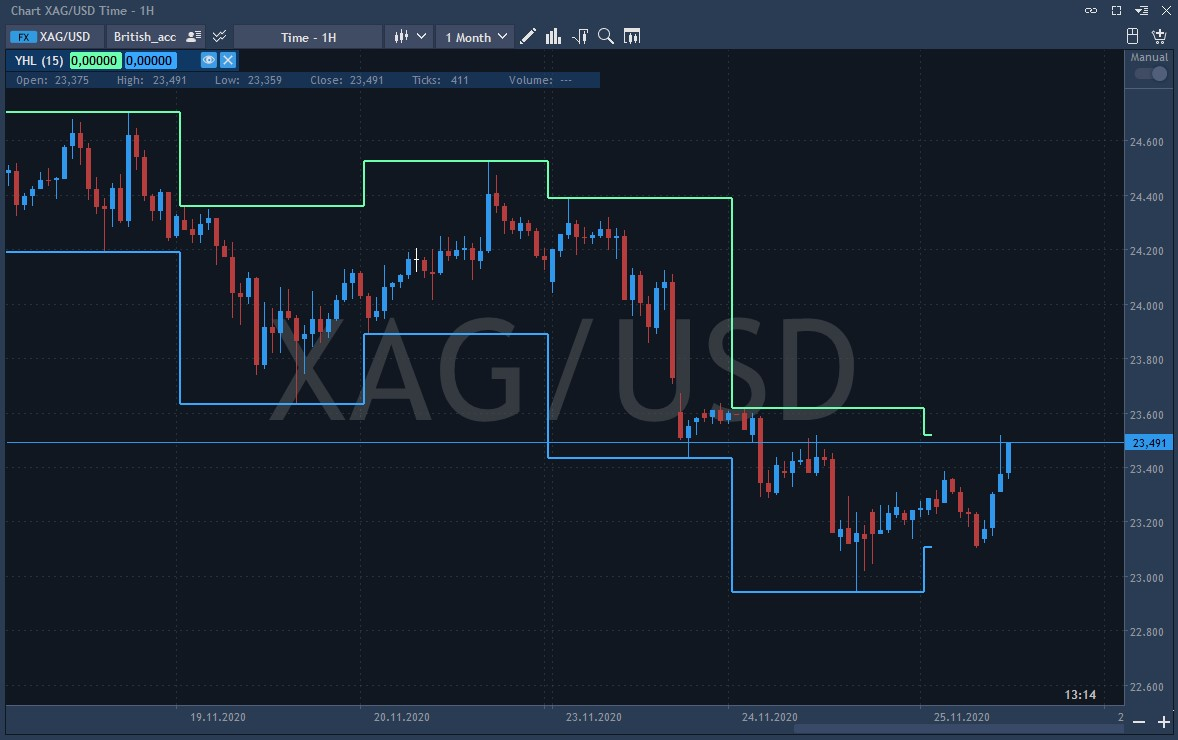
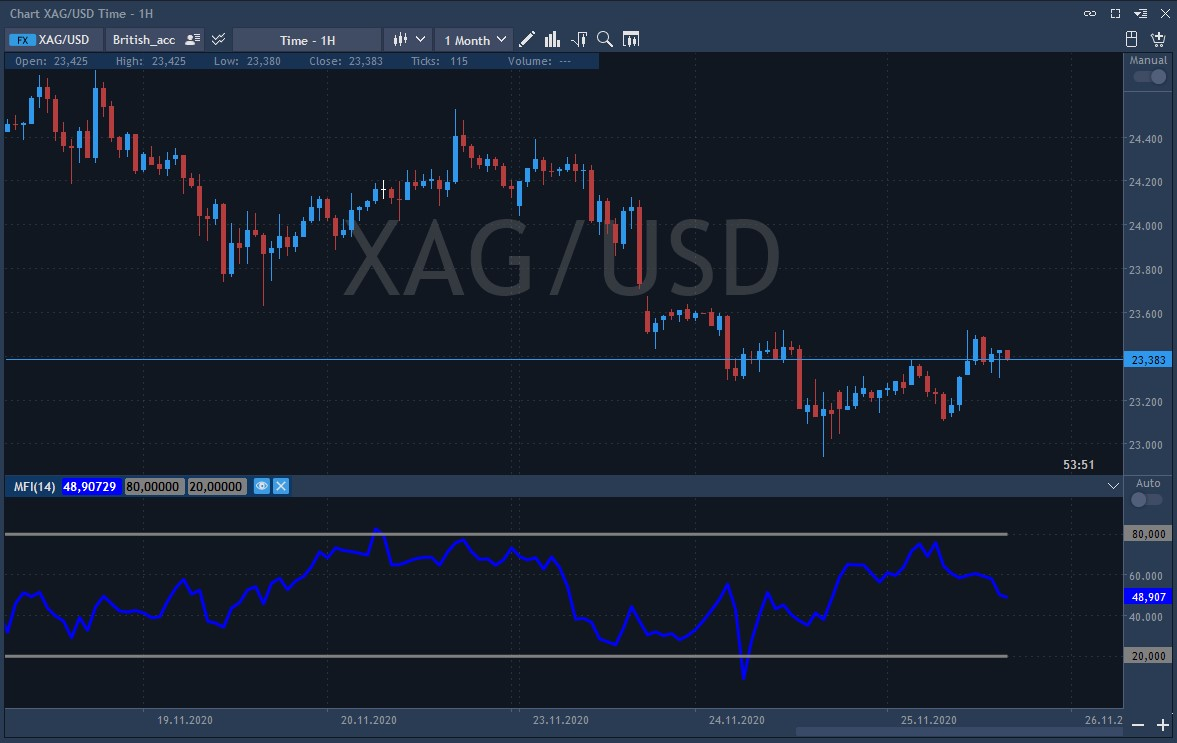
GitBook: [master] 4 pages and 2 assets modified

diff --git a/desktop-application-for-windows/windows/technical-indicators/volume/mfi-money-flow-index.md b/desktop-application-for-windows/windows/technical-indicators/volume/mfi-money-flow-index.md
@@ -1,0 +1,25 @@
+# MFI \(Money flow index\)
+
+The Money Flow Index \(MFI\) indicator is a tool used in technical analysis to measure buying and selling pressure. This is done by analyzing both price and volume. The MFI calculation generates a value, which is then displayed as a line that moves in a range from 20 to 80 making it an oscillator. When the MFI rises, it indicates increased buying pressure. When it falls, it indicates increased pressure from sellers. The money flow index can generate several signals, primarily: overbought and oversold conditions, divergences, and unsuccessful fluctuations.
+
+Oversold levels are usually found below 20 and overbought levels are above 80. These levels can change depending on market conditions. Level lines must cross the highest peaks and lowest troughs. Oversold/overbought levels are usually not a sufficient reason to buy/sell, and traders should consider additional technical analysis or research to confirm the security turning point. Be aware that during strong trends the MFI can remain overbought or oversold for extended periods of time. If the underlying price makes a new high or low that is not confirmed by the MFI, this divergence could signal a price reversal.
+
+### Calculation
+
+The Money Flow Index requires a series of calculations.
+
+* First, the period's Typical Price is calculated: Typical Price = \(High + Low + Close\)/3
+* Next, Money Flow \(not the Money Flow Index\) is calculated by multiplying the period's Typical Price by the volume: Money Flow = Typical Price \* Volume
+* If today's Typical Price is greater than yesterday's Typical Price, it is considered Positive Money Flow. If today's price is less, it is considered Negative Money Flow;
+* Positive Money Flow is the sum of the Positive Money over the specified number of periods. Negative Money Flow is the sum of the Negative Money over the specified number of periods:
+* The Money Ratio is then calculated by dividing the Positive Money Flow by the Negative Money Flow: Money Ratio = Positive Money Flow / Negative Money Flow
+* Finally, the Money Flow Index is calculated using the Money Ratio.
+
+### Main parameters
+
+MFI period – allows setting the time period for which the MFI will be plotted.
+
+The indicator looks as follows:
+
+![](../../../../.gitbook/assets/screenshot_1%20%2833%29.jpg)
+

diff --git a/SUMMARY.md b/SUMMARY.md
@@ -90,6 +90,8 @@
         * [ATR \(Average true range\)](desktop-application-for-windows/windows/technical-indicators/volatility/atr-average-true-range.md)
         * [HV \(Historical volatility\)](desktop-application-for-windows/windows/technical-indicators/volatility/hv-historical-volatility.md)
         * [SD \(Standard deviation\)](desktop-application-for-windows/windows/technical-indicators/volatility/sd-standard-deviation.md)
+      * [Volume](desktop-application-for-windows/windows/technical-indicators/volume/README.md)
+        * [MFI \(Money flow index\)](desktop-application-for-windows/windows/technical-indicators/volume/mfi-money-flow-index.md)
     * [Trading panels](desktop-application-for-windows/windows/trading-panels/README.md)
       * [Order entry](desktop-application-for-windows/windows/trading-panels/order-entry.md)
       * [Super DOM](desktop-application-for-windows/windows/trading-panels/super-dom.md)

diff --git a/desktop-application-for-windows/windows/technical-indicators/trend/yhl-yesterdays-high-low.md b/desktop-application-for-windows/windows/technical-indicators/trend/yhl-yesterdays-high-low.md
@@ -8,5 +8,5 @@ Day's back – allows setting the number of past days for which the indicator wi
 
 This indicator looks as follows on the chart:
 
-![](../../../../.gitbook/assets/screenshot_1%20%2833%29.jpg)
+![](../../../../.gitbook/assets/screenshot_1%20%2834%29.jpg)
 

diff --git a/desktop-application-for-windows/windows/technical-indicators/volume/README.md b/desktop-application-for-windows/windows/technical-indicators/volume/README.md
@@ -1,0 +1,2 @@
+# Volume
+
